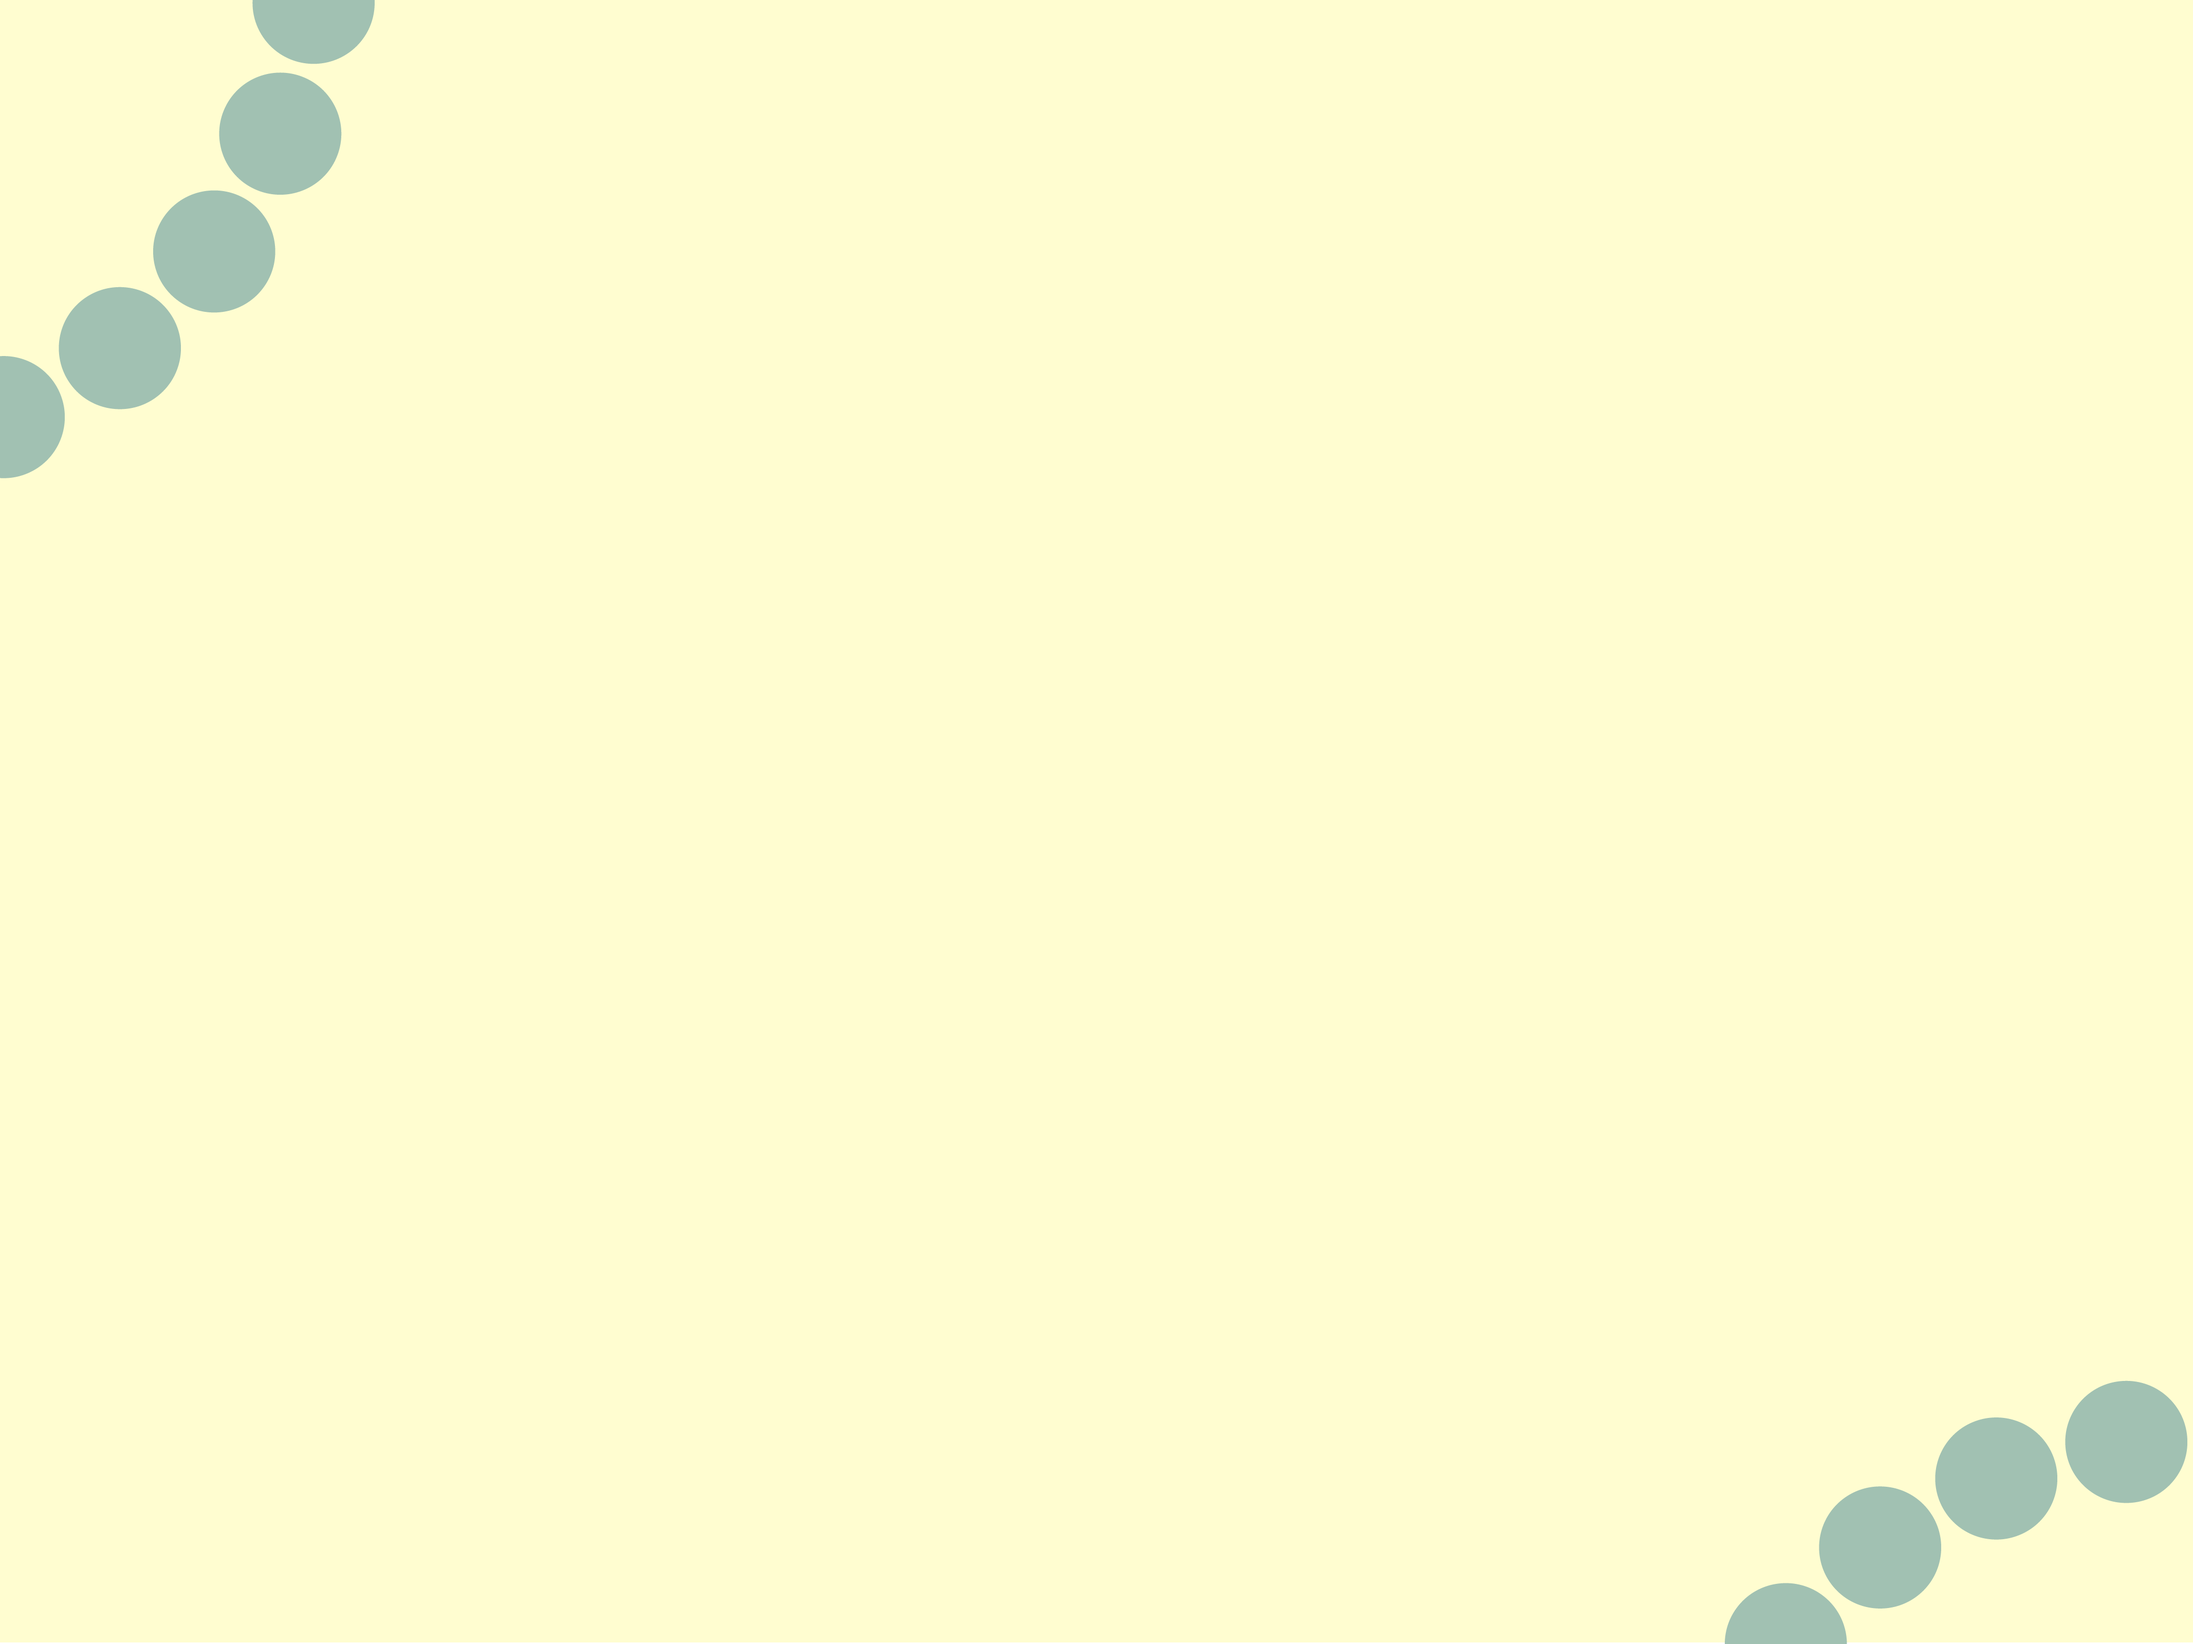
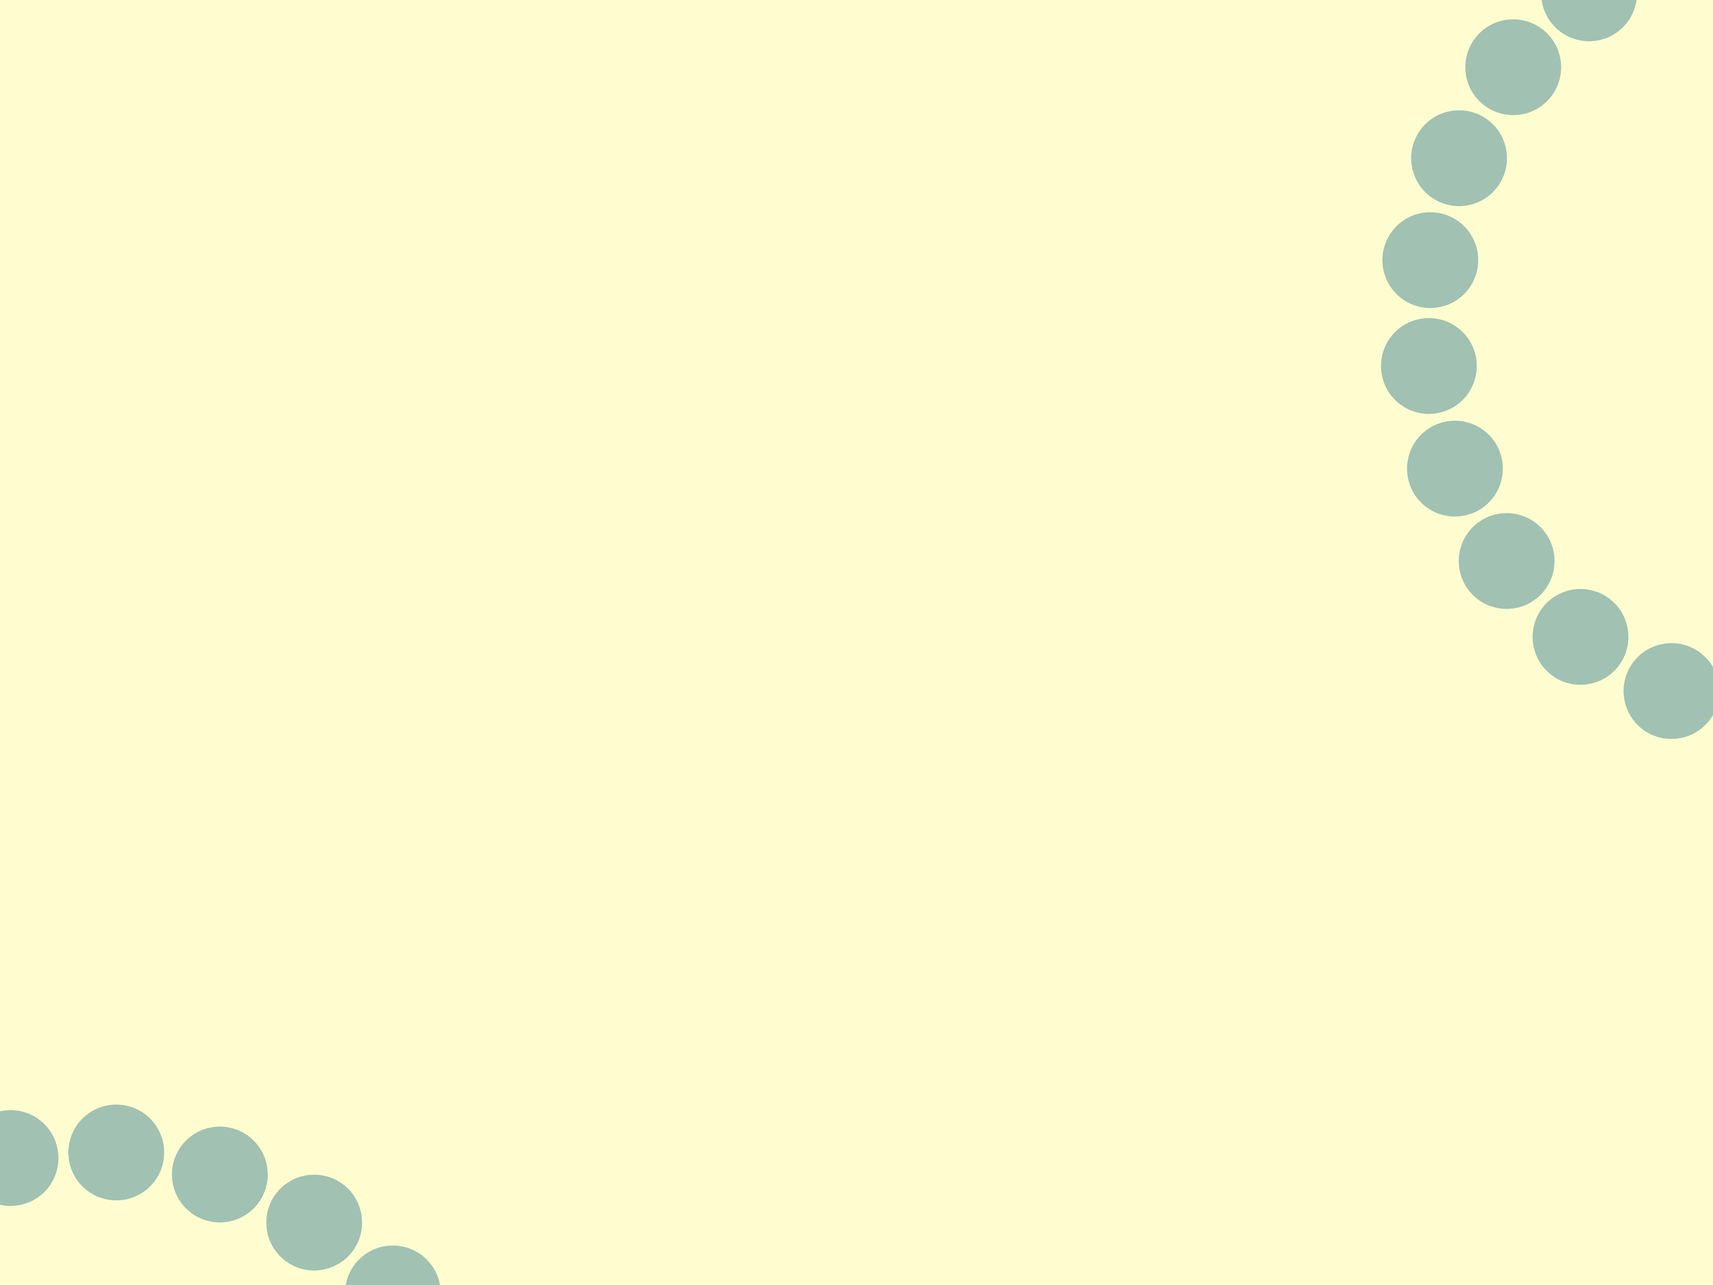
add background pics

Changed region(s): [[0.0, 0.8424, 1.0, 1.0], [0.7801, 0.0, 1.0, 0.5928], [0.0, 0.0, 0.1872, 0.312]]

diff --git a/templates/pages/placeholder.home.html b/templates/pages/placeholder.home.html
@@ -53,6 +53,54 @@
 
         </div>
     </section>
+    <!-- WHERE WE COME IN -->
+    <section id="where-we-come-in">
+        <div class="container text-center">
+            <h1 class="good-headline">WHERE WE COME IN</h1>
+            <h6 class="body__description">
+                  Within Reach removes barriers to birth control by helping<br/>
+women identify the closest locations for one-stop shop<br/>
+pharmacist prescribed contraception. We are also working
+to demand this service is accessible at all pharmacies.
+            </h6>
+        </div>
+    </section>
+    <!-- HELP -->
+    <section id="help">
+        <!-- <div class="container text-center row">
+            <div id="find-help" class="col-md-6">
+                <h1 class="good-headline">WE WANT TO HELP YOU</h1>
+                <h6 class="body__description">
+                    find a pharmacy that will provide birth control prescription
+                </h6>
+                <a href="/find-a-pharmacy"><button
+                      class="btn btn-teal"
+                      label="Search"
+                    >SEARCH</button></a>
+            </div>
+            <div id="give-help" class="col-md-6">
+                <h1 class="good-headline">HELP US HELP OTHERS</h1>
+                <h6 class="body__description">
+                    identify pharmacies that provide this service, and pressure those that don’t
+                </h6>
+                <button
+                      id="help-button"
+                      class="btn btn-teal"
+                      label="Help"
+                    >HELP</button>
+            </div>
+        </div> -->
+        <a href="/find-a-pharmacy"><button
+                        id="search-btn"
+                      class="last-btn btn btn-teal"
+                      label="Search"
+                    >SEARCH</button></a>
+                    <a href="/find-a-pharmacy"><button
+                      class="last-btn btn btn-teal"
+                      label="Search"
+                      id="help-btn"
+                    >HELP</button></a>
+    </section>
 </div>
 
 {% endblock %}

diff --git a/static/css/styles.css b/static/css/styles.css
@@ -18,6 +18,54 @@ section {
   background-size: 100%;
 }
 
+#bad-news {
+  background: url('../img/yellow2background-01.png') bottom center no-repeat;
+  background-size: 100%;
+}
+
+#where-we-come-in {
+  background-color: #a1c1b2;
+}
+
+// #find-help {
+//   min-height: 100%;
+// }
+
+// #give-help {
+//   background-color: var(--dark-green-color);
+//   color: white;
+//   min-height: 100%;
+// }
+
+#give-help h1 {
+  color: white;
+}
+
+#help {
+  background-image: url('../img/help_us.png');
+  background-size: 1250px;
+}
+
+#enter-zipcode {
+  background-image: url('../img/SLIDE1-01.png');
+  min-height: 100vh;
+  background-size: 1250px;
+}
+
+.last-btn {
+  margin-top: 700px !important;
+  background-color: white !important;
+  color: #00a796 !important;
+
+}
+
+.last-btn:last-child {
+  margin-left: 300px !important;
+  background-color: white !important;
+  color: #00a796 !important;
+  margin-bottom: 10px;
+}
+
  #map {
   height: 400px;
   width: 100%;
@@ -35,6 +83,12 @@ section {
     margin-top: 50px;
     font-family: 'Oswald', sans-serif;
     font-size: 30px !important;
+}
+
+#help-button {
+  background-color: white !important;
+  color: var(--dark-green-color) !important;
+  margin-bottom: 1em;
 }
 
 .btn-teal:last-child{
@@ -67,7 +121,7 @@ section {
 .good-headline {
   font-family: 'Oswald', sans-serif;
   color: var(--dark-green-color);
-  margin-top: 1em;
+  margin-top: 2em;
   margin-bottom: 1em;
   font-size: 5em;
 }

diff --git a/templates/pages/find-a-pharmacy.html b/templates/pages/find-a-pharmacy.html
@@ -2,7 +2,15 @@
 {% extends 'layouts/main.html' %}
 {% block title %}Find a Pharmacy{% endblock %}
 {% block content %}
-<div id="root">
+<section id="enter-zipcode">
+  <button id="hidden-button"><a href="/"></a></button>
+</section>
+<!-- <div id="root">
+    <div>
+      <a href="/">
+        <img height='100' src='../static/img/withinreachlogo.png' class="img" alt="within reach logo" />
+      </a>
+    </div>
     <form action="/search-pharmacies" method="POST" class="form form-reset">
       <h3 class="form-heading">Enter your zipcode </h3>
       <input type="text" name="zipcode" placeholder="Your Zip Code">
@@ -10,20 +18,16 @@
     </form>
     <section class="map">
         <div class="container">
-            <div>
-                <a href="/">
-                  <img height='100' src='../static/img/withinreachlogo.png' class="img" alt="within reach logo" />
-                </a>
-            </div>
+
 
             <div id="map">
             </div>
             </div>
         </div>
     </section>
-</div>
+</div> -->
 
-    <script>
+    <!-- <script>
       function initMap() {
         var sanfran = {lat: 37.775, lng: -122.419};
         var map = new google.maps.Map(document.getElementById('map'), {
@@ -38,6 +42,6 @@
     </script>
     <script async defer
     src="https://maps.googleapis.com/maps/api/js?key=AIzaSyAyesbQMyKVVbBgKVi2g6VX7mop2z96jBo&callback=initMap">
-    </script>
+    </script> -->
 
 {% endblock %}

diff --git a/templates/layouts/main.html b/templates/layouts/main.html
@@ -63,12 +63,12 @@
 
   </div>
 
-  <div id="footer">
+  <!-- <div id="footer">
     <div class="container">
       <p>Within Reach &copy; All Rights Reserved.</p>
       {% block footer %}{% endblock %}
     </div>
-  </div>
+  </div> -->
 
   <script type="text/javascript" src="//ajax.googleapis.com/ajax/libs/jquery/1.11.1/jquery.min.js"></script>
   <script>window.jQuery || document.write('<script type="text/javascript" src="/static/js/libs/jquery-1.11.1.min.js"><\/script>')</script>
